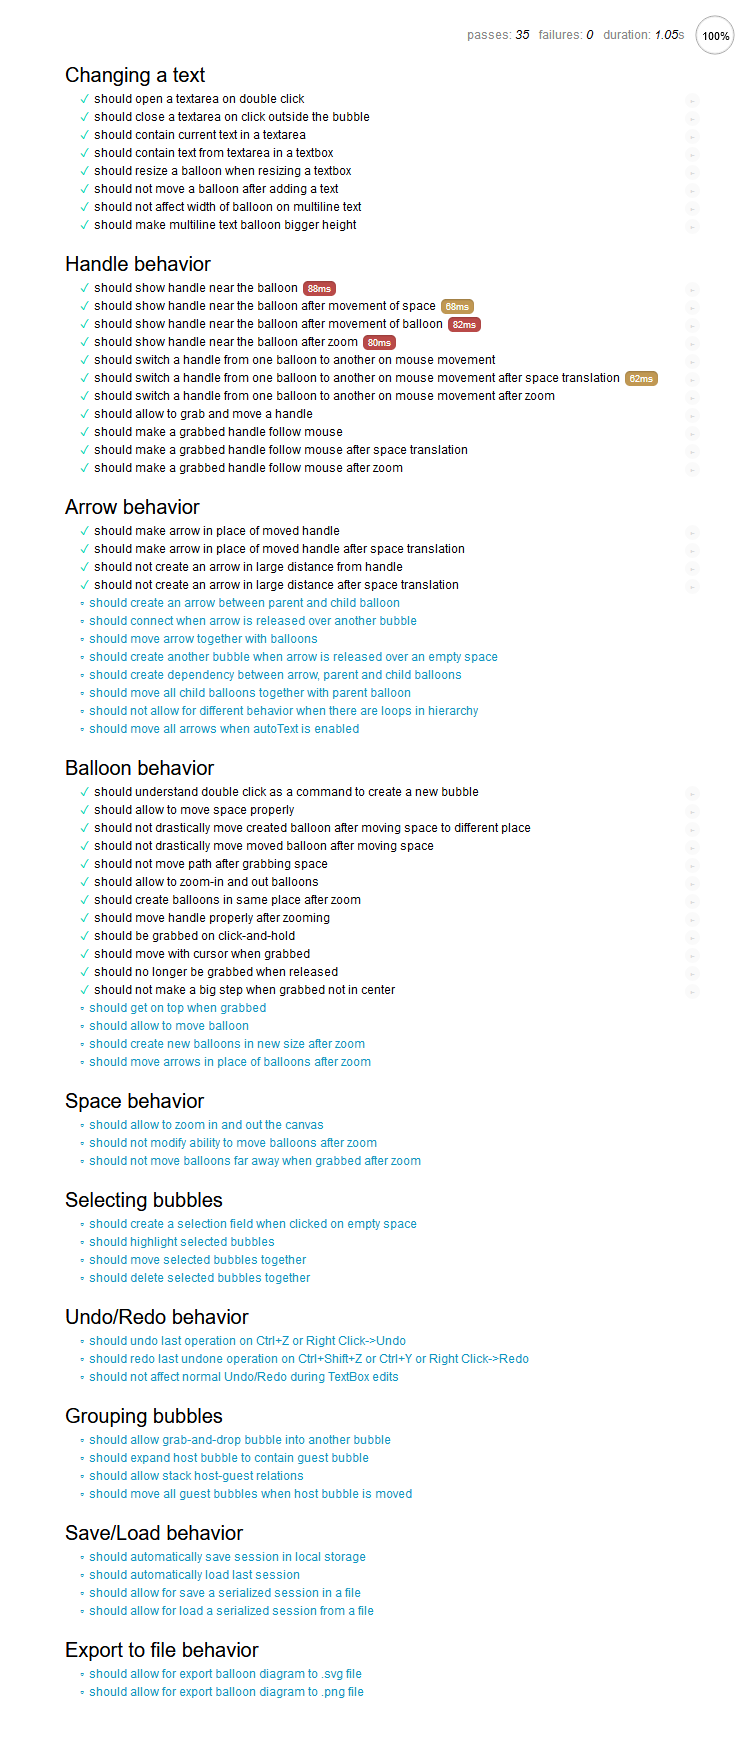
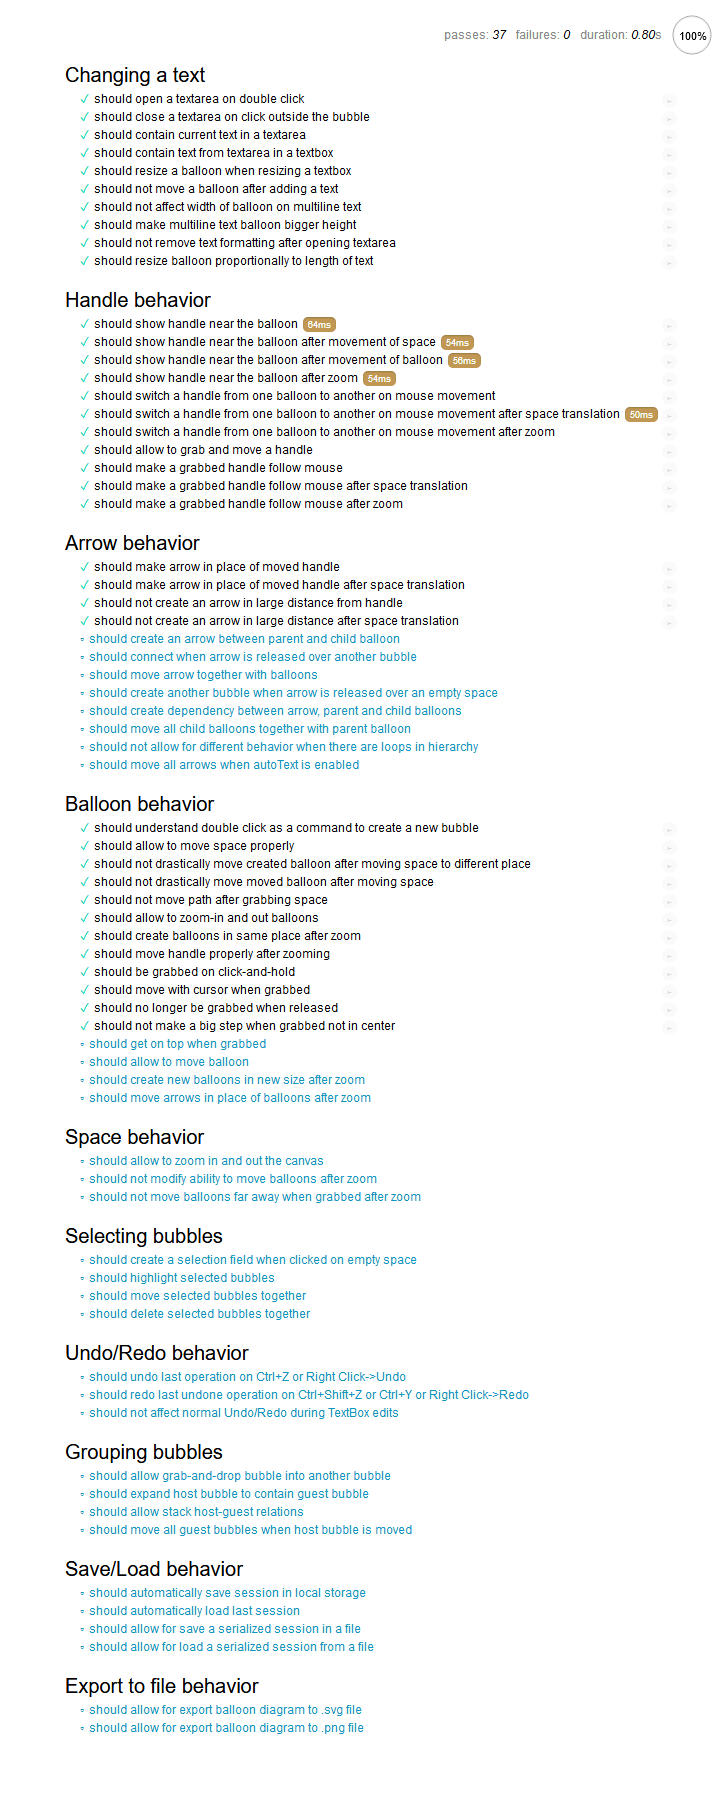
Fixed resizing the balloon proportionally to the length of text

Changed region(s): [[0.0908, 0.0312, 0.9078, 0.9682], [0.6052, 0.0, 0.9078, 0.0312], [0.9381, 0.0, 0.9684, 0.0312]]

diff --git a/scripts/balloon.js b/scripts/balloon.js
@@ -25,6 +25,29 @@
         this.path = this.createPath();
     }
 
+    createBalloon(x, y) {
+        const w = 200;
+        const h = 200;
+        x = x - w / 2;
+        y = y - h / 2;
+        const div = Space.s.rect(x, y, w, h);
+        div.attr({
+            id: `balloon${this.n}`,
+            class: 'balloon',
+            fill: 'red',
+            'opacity': 0.8
+        });
+        const fO = document.createElementNS('http://www.w3.org/2000/svg', 'foreignObject');
+        fO.setAttribute('id', `fo${this.n}`);
+        fO.setAttribute('x', x);
+        fO.setAttribute('y', y);
+        fO.setAttribute('width', w);
+        fO.setAttribute('height', h);
+        fO.innerHTML = `<div class="inner-text" id="balloon-div-${this.n}"></div>`;
+        div.after(fO);
+        return [fO, div];
+    }
+
     W() {
         var w = Space.point.w;
         var w0 = (new Point()).getRect()[2];
@@ -145,29 +168,6 @@
         arrow.moveHead(this.x, this.y);
     }
 
-    createBalloon(x, y) {
-        const w = 200;
-        const h = 200;
-        x = x - w / 2;
-        y = y - h / 2;
-        const div = Space.s.rect(x, y, w, h);
-        div.attr({
-            id: `balloon${this.n}`,
-            class: 'balloon',
-            fill: 'red',
-            'opacity': 0.8
-        });
-        const fO = document.createElementNS('http://www.w3.org/2000/svg', 'foreignObject');
-        fO.setAttribute('id', `fo${this.n}`);
-        fO.setAttribute('x', x);
-        fO.setAttribute('y', y);
-        fO.setAttribute('width', w);
-        fO.setAttribute('height', h);
-        fO.innerHTML = '<div class="inner-text"></div>';
-        div.after(fO);
-        return [fO, div];
-    }
-
     createPath() {
         [this.pathx, this.pathy] = [this.x, this.y];
         var r0 = roundPathCorners(`M0 0 L ${this.W()} 0 L${this.W()} ${this.H()} L 0 ${this.H()} Z`, 20);
@@ -200,7 +200,7 @@
 
     onInput() {
         var w1 = this.W();
-        var w = getTextLength();
+        var w = this.getTextLength();
         var width = w.x;
         var height = w.y;
         this.W0 = width;
@@ -214,12 +214,10 @@
     }
 
     openContent() {
-        closeCurrentTextarea();
+        Space.closeCurrentTextarea();
         var fO = this.fO;
         var div = this.div;
-
-        var s = this.fO.textContent;
-
+        var s = '' + $(`#balloon-div-${this.n}`).html();
         fO.innerHTML = `<div id="tarea" contentEditable="true" autocomplete="off" autocorrect="off" autocapitalize="off" spellcheck="false">${s}</div>`;
         Space.currentTextareaBalloon = this;
 
@@ -233,31 +231,27 @@
 
         fO.oninput = () => { this.onInput(); };
     }
-}
 
-function getTextLength() {
-    var text = $('#tarea');
-    text.focus();
-    text.select();
-    var str = '' + text.html();
-    console.log(str);
-    str = str.replace(/<br>$/, '');
-    str = str.replace(/\n$/, '');
-    str = str.replace(/<br>/g, '\n');
-    console.log(str);
-    var x = 50 * text.text.length + 200;
-    var y = 100 + 100 * str.split('\n').length;
-    console.log(`height: ${y}`);
-    return { x: x, y: y };
-}
-
-function closeCurrentTextarea() {
-    if (Space.currentTextareaBalloon === null) return;
-    Space.currentTextareaBalloon.drop();
-    if (Space.currentTextareaBalloon.fO != null) {
+    closeContent() {
+        this.drop();
+        if (this.fO === null) return;
         var s = $('#tarea')[0].innerHTML;
-        Space.currentTextareaBalloon.fO.innerHTML = `<div class="inner-text">${s}</div>`;
-        Space.currentTextareaBalloon = null;
+        this.fO.innerHTML = `<div class="inner-text" id="balloon-div-${this.n}">${s}</div>`;
     }
-    Space.currentTextareaBalloon = null;
+
+    getTextLength() {
+        var text = $('#tarea');
+        text.focus();
+        text.select();
+        var str = '' + text.html();
+        str = str.replace(/<br>$/, '');
+        str = str.replace(/\n$/, '');
+        str = str.replace(/<br>/g, '\n');
+        var tab = str.split('\n');
+        var n = 0;
+        n = tab[0].length;
+        var x = 50 * n + 200;
+        var y = 100 + 100 * tab.length;
+        return { x: x, y: y };
+    }
 }

diff --git a/test/test.js b/test/test.js
@@ -32,18 +32,18 @@ describe('Changing a text',
                 Balloons.addBalloon(x0, y0);
                 Mouse.doubleclick(x0, y0);
                 var b = Balloons.getLast();
-                $('#tarea').text('abc');
+                $('#tarea').text('abc\nabc');
                 Mouse.click(x0 + 300, y0 + 300);
-                ($($('.inner-text')[0]).text()).should.be.equal('abc');
+                ($($('.inner-text')[0]).text()).should.be.equal('abc\nabc');
                 Space.clear();
             });
 
         it('should contain text from textarea in a textbox',
             () => {
                 Balloons.addBalloon(x0, y0);
-                ($($('.inner-text')[0]).text('abc'));
+                ($($('.inner-text')[0]).text('abc\nabc'));
                 Mouse.doubleclick(x0, y0);
-                ($('#tarea').text()).should.be.equal('abc');
+                ($('#tarea').text()).should.be.equal('abc\nabc');
                 Space.clear();
             });
 
@@ -84,10 +84,10 @@ describe('Changing a text',
                 Balloons.addBalloon(x0, y0);
                 Mouse.doubleclick(x0, y0);
                 var b = Balloons.getLast();
-                $('#tarea').text('abc');
+                $('#tarea').html('abc');
                 b.onInput();
                 var w1 = b.W();
-                $('#tarea').text('abc\nabc');
+                $('#tarea').html('abc\nabc');
                 b.onInput();
                 var w2 = b.W();
                 w1.should.be.equal(w2);
@@ -99,13 +99,47 @@ describe('Changing a text',
                 Balloons.addBalloon(x0, y0);
                 Mouse.doubleclick(x0, y0);
                 var b = Balloons.getLast();
-                $('#tarea').text('abc');
+                $('#tarea').html('abc');
                 b.onInput();
                 var h1 = b.H();
-                $('#tarea').text('abc\nabc');
+                $('#tarea').html('abc<br>abc');
                 b.onInput();
                 var h2 = b.H();
                 h2.should.be.above(h1);
+                Space.clear();
+            });
+
+        it('should not remove text formatting after opening textarea',
+            () => {
+                Balloons.addBalloon(x0, y0);
+                var b = Balloons.getLast();
+                Mouse.doubleclick(x0, y0);
+                var str = 'abc<br>abc';
+                $('#tarea').html(str);
+                b.onInput();
+                Space.closeCurrentTextarea();
+                var str2 = '' + $($('.inner-text')[0]).html();
+                str2.should.be.equal(str);
+                Mouse.doubleclick(x0, y0);
+                var str3 = '' + $('#tarea').html();
+                str3.should.be.equal(str);
+                Space.clear();
+            });
+
+        it('should resize balloon proportionally to length of text',
+            () => {
+                Balloons.addBalloon(x0, y0);
+                var b = Balloons.getLast();
+                var w0 = b.W();
+                Mouse.doubleclick(x0, y0);
+                $('#tarea').html('abcabc');
+                b.onInput();
+                var w1 = b.W();
+                w1.should.be.above(w0);
+                $('#tarea').html('abcabcabcabc');
+                b.onInput();
+                var w2 = b.W();
+                w2.should.be.above(w1);
                 Space.clear();
             });
     });

diff --git a/scripts/space.js b/scripts/space.js
@@ -163,7 +163,7 @@ var Space = {
             Space.mouseDown = false;
         }
         else {
-            closeCurrentTextarea();
+            Space.closeCurrentTextarea();
 
             if (element.id === 'body') {
                 Space.draggingSpace = true;
@@ -330,6 +330,13 @@ var Space = {
         if (Space.handle.parentBalloon === null) return;
         var b = Space.handle.parentBalloon;
         b.drop();
+    },
+
+    closeCurrentTextarea() {
+        var b = Space.currentTextareaBalloon;
+        if (b === null) return;
+        b.closeContent();
+        Space.currentTextareaBalloon = null;
     }
 }
 
